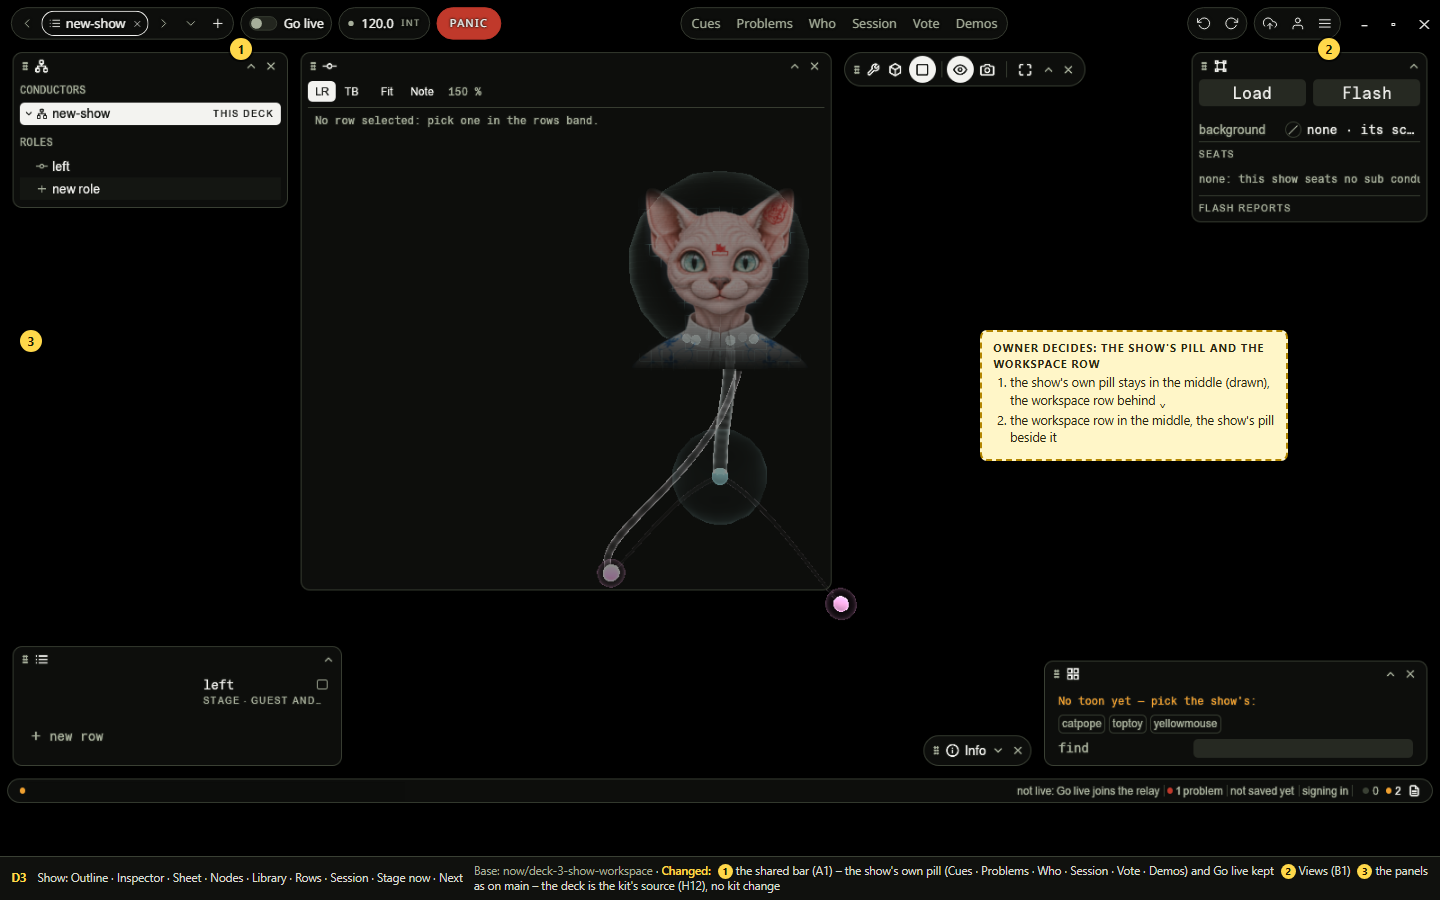
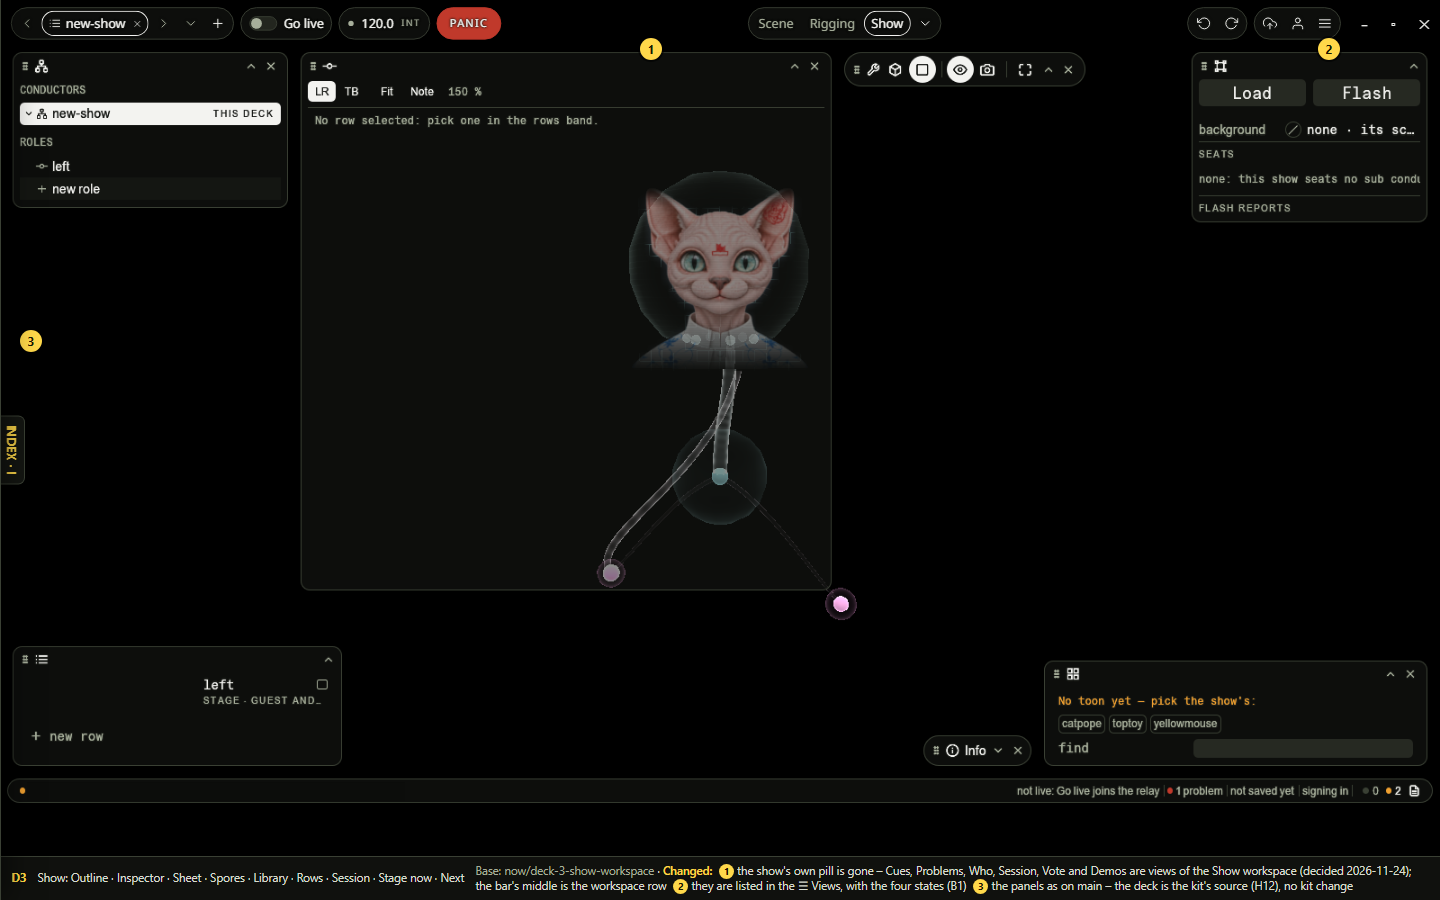
Lap 2 planning: the Show's Cues, Problems, Who, Session, Vote and Demos are views, not a pill in the bar (RULES H16, owner 2026-11-24); D3 redrawn without the pill. Refs #626

diff --git a/agents/research/redesign/lap2/draft-screens.js b/agents/research/redesign/lap2/draft-screens.js
@@ -293,10 +293,9 @@ add('D', 'D1', 'The switcher over a workspace (Home stays when nothing is open)'
 add('D', 'D2', 'Build: Rig · Library · Inspector · Audio · Info · Mixer · Camera tools · Tools', 'now/deck-3-stage-workspace (catpope open in Build)',
   ['the shared bar (A1)', 'Views: the ☰ menu\'s PANELS become Views (A2 / B1)', DKNOTE],
   () => `${deckShot('deck-3-stage-workspace.png', deckBarNew({ wsNames: ['?','?','?'] }))}${mk(1, 230, 38)}${mk(2, 1318, 38)}${capn(980, 52, 'Views in the ☰ menu (A2) or the tab\'s menu (B1)')}${mk(3, 20, 330)}`);
-add('D', 'D3', 'Show: Outline · Inspector · Sheet · Nodes · Library · Rows · Session · Stage now · Next', 'now/deck-3-show-workspace',
-  ["the shared bar (A1) – the show's own pill (Cues · Problems · Who · Session · Vote · Demos) and Go live kept", 'Views (B1)', DKNOTE],
-  () => `${deckShot('deck-3-show-workspace.png', deckBarNew({ tabs: [['list','new-show']], mode: 'Go live', ws: `<span class="kp">${['Cues','Problems','Who','Session','Vote','Demos'].map(n => `<span class="kt">${n}</span>`).join('')}</span>` }))}${mk(1, 230, 38)}${mk(2, 1318, 38)}${mk(3, 20, 330)}
-  ${qcard(980, 330, "the Show's pill and the workspace row", ["the show's own pill stays in the middle (drawn), the workspace row behind ⌄", 'the workspace row in the middle, the show\'s pill beside it'], '', '22rem')}`);
+add('D', 'D3', 'Show: Outline · Inspector · Sheet · Spores · Library · Rows · Session · Stage now · Next', 'now/deck-3-show-workspace',
+  ["the show's own pill is gone – Cues, Problems, Who, Session, Vote and Demos are views of the Show workspace (decided 2026-11-24); the bar's middle is the workspace row", 'they are listed in the ☰ Views, with the four states (B1)', DKNOTE],
+  () => `${deckShot('deck-3-show-workspace.png', deckBarNew({ tabs: [['list','new-show']], mode: 'Go live', wsNames: ['Scene','Rigging','Show'], wsOn: 2 }))}${mk(1, 640, 38)}${mk(2, 1318, 38)}${mk(3, 20, 330)}`);
 add('D', 'D4', 'Module: Library · Drives · Module · Problems', 'now/deck-3-module-workspace', ['the shared bar (A1)', 'Views (B1)', DKNOTE],
   () => `${deckShot('deck-3-module-workspace.png', deckBarNew({ tabs: [['code','new module']], mode: false, wsNames: ['?','?','?'] }))}${mk(1, 230, 38)}${mk(2, 1318, 38)}${mk(3, 20, 330)}`);
 add('D', 'D5', 'An asset open (character, module, video)', 'now/deck-3-stage-workspace (catpope, a character, open in Build)', ['the shared bar (A1)', 'Views (B1)', DKNOTE],

diff --git a/agents/decisions/law.md b/agents/decisions/law.md
@@ -4,6 +4,7 @@ The owner's words, one line each, newest first, append-only (how: agents/DECISIO
 Keys here: `[editor-style]` 33 the tools take the deck / OSCT editor style; the creator is desktop-only · `[vertex]` 1 OpenCode sessions use the `vienna-struggle` service account by the kind ladder · `[deck-rules-in-deck]` 3 deck rules live in the deck, the server keeps configuration · `[mcp-byo-ai]` 6 AI = the member's own Claude via MCP · `[worktree-requests]` 6 worktrees and branches: when, and the owner merges · `[docs]` 4 the docs structure and caps · `[language-neutral]` 3 everything language-independent · `[scenes-from-api]` 3 scenes are API content (entities), not TOML · `[audit]` 2 the bridge audit is standing and reruns often · `[browser-is-ui]` 2 the browser is UI, no business logic · `[designer-in-creator]` 2 the designer is in the creator; performance vs edit mode · `[dev-ports]` 2 fixed ports, one start routine · `[issues-only]` 2 all open work is GitHub issues · `[kanon]` 2 the Kanon (story texts) · `[mariadb]` 2 MariaDB only; production is the source · `[names]` 2 deck / stage environment / no master-slave wording · `[night-runs]` 2 unattended runs: merge to main, never push · `[no-cloud]` 2 no cloud sessions; workers local in worktrees · `[perf-first]` 2 performance and stability first · `[rigs-in-core]` 2 rigs and modules are Rust in the core · `[ai-license]` 1 AI models without the big companies' license limits · `[api-content]` 1 content from the API, JSON only as import / export · `[audiovisual]` 1 everything is audiovisual · `[board]` 1 the six board statuses · `[board-move]` 1 move issues along the board · `[bold]` 1 bold very rarely · `[branch-names]` 1 <kind>/<issue>-<title> · `[carrier-bag]` 1 "carrier bag" replaces inventory · `[codes]` 1 codes are case-sensitive · `[config-small]` 1 keep the configuration small · `[confirm]` 1 in-page confirmations · `[control-height]` 1 one control height · `[core-only]` 2 check:core-only ratchet · `[deck-ci-local]` 2 deck CI runs locally; stamps and the full tier · `[devices-via-core]` 1 camera / MIDI / sensors reach the core through adapters · `[done-green]` 1 done = green checks · `[drafts-first]` 1 bigger UI is drafted first · `[empty-states]` 1 empty states · `[fold]` 1 quiet fold buttons · `[law-book]` 1 this refactor · `[local-media]` 1 local media is a dev copy · `[mcp-draft-ok]` 1 save_draft always allowed · `[mcp-drafts]` 1 the AI saves drafts, the member confirms · `[mcp-restart]` 1 agents restart their own MCP · `[media-quality]` 1 media quality is a reader setting · `[migrations]` 1 the owner never runs migrations; format changes · `[models]` 1 model per task · `[module-restart]` 1 a new module is taken only by restart · `[music]` 1 every character makes music; how SCUTOONS began · `[no-backcompat-engine]` 1 no backwards compatibility for the audio engine · `[no-duplicate]` 1 no second copy of core logic · `[one-core]` 1 the one universal Rust core; platforms are target + adapters · `[one-engine]` 1 one audio engine, native ≡ wasm · `[own-video]` 1 own video playback, no browser API · `[packs]` 1 items / recipes are data packs · `[public-repo]` 1 repo public, Actions minutes free · `[readers-save-nothing]` 1 readers save nothing; no submit flow · `[rem]` 1 sizes in rem · `[round-square]` 1 round vs square controls · `[rust-engine]` 1 as much as possible in the Rust engine · `[rust-first]` 1 Rust first for everything native · `[slice-624]` 1 slice 390 × 624 · `[tempo-core]` 1 the tempo clock lives in the core · `[test-user]` 1 agents debug as the test user · `[ts-module-host]` 1 the TS module host is deleted · `[ts-tests]` 2 TypeScript + unit tests · `[urls]` 1 printed URLs never change · `[usage]` 1 usage reporting · `[ui-kit]` 8 one component library for shared 2D UI
 
 ## 2026-11
+- 2026-11-24 · ui deck · [editor-style] **Decided: the Show's Cues · Problems · Who · Session · Vote · Demos are views, not a pill in the bar – they follow the workspace logic and do not interfere with the workspace row.** Said on the deck's Show (D3), and said again when a picture still drew them: Owner: *"I think we have to just move them to views and make it follow our workspace logic. So they don't interfere with the workspace bar."* · *"These are redundant, we said that before … please record my decisions. They should be views now."* · → RULES H16, research/redesign/lap2/draft.html `?s=D3`, PLAN.md P2 (deck)
 - 2026-11-24 · ui · [editor-style] **Decided: depth layers. The switcher ("workspace switcher or just switcher from now on") shows no top bar – the bar is blurred in the background like the rest of the workspace, the stage and the panels. The same for a panel taken full, which is a box and not a real full screen: it shows its context by blurring the background. Blur is used on this level of overlay only; other panels do not need it.** Owner: *"We do not want to see the top bar, it is blurred out in the background, just like the rest of the underlying workspace and stage and panels."* · *"Same blurred concept goes for take fullscreen for a panel, which is not a real fullscreen but a boxed one. So it has to show context by blurring out the background."* · *"And we only use blur in this level of overlay, rule. Other panels don't need it."* · *"So we create some depth layers for our UI dogma."* The four layers' names (stage · surfaces · popovers · overlay) are the agent's wording, to confirm. · → RULES H15, research/redesign/lap2/draft.html `?s=A3`, `?s=D1`, `?s=B4`
 - 2026-11-24 · ui · [editor-style] **Decided: signals keep their colour coding – the only thing that does under palette D. Ports, pins and cables are drawn in their signal's colour and shape from the one signal table (deck-kit `base/signal.rs`); what OSCT has and the table lacks is adopted.** Answering "signals by shape only?" (SPORES-VIEW.md point 4), and so replacing the kit's point 14 (cables in the text colour). Owner: *"No. Signals have colour coding. This is the only thing that keeps their colour coding. We have a concept in place and can adopt if some [are] missing from OSCT."* · → RULES H11, research/redesign/lap2/SPORES-VIEW.md, NETWORK.md §3
 - 2026-11-24 · ui · [editor-style] **Decided: the kit in palette D is approved as drawn (research/redesign/lap2/kit-d.html, its 14 points; the tab's hover / drag border in the text colour) – with two conditions: no grey through the back door, and a colour-blind token set.** Owner: *"I agree on kit-d. That looks awesome. Except there are some transparencies that I don't like since we are secretly introducing grey a lot again instead of transparency – can we please rework that. Also for the colour tokens add the colour-blind version. Blue and yellow or orange are the colours there respectively."* Grounds are see-through (the text colour at a low alpha), a state is never a grey fill; ok / warning / error get a second, colour-blind set (blue / yellow / orange, Okabe–Ito) with a mark beside each colour, a mode in Settings.

diff --git a/agents/RULES.md b/agents/RULES.md
@@ -103,6 +103,7 @@ Old section names in code comments (until 2026-11-03): "Backlog" = C · "Git, se
 - **H13** Design pictures (drafts in `research/redesign/` and every mock-up shown to the owner) are drawn with the kit's own tokens and components – `shared/tokens` and the `shared/ui` editor kit (H11, H12): round pills, the kit's badges, the stage and panel grounds – never an older style; a draft that needs a shape the kit lacks marks it as new. Badges (the kit's Chip) are small and delicate: round, the accent as line and words on a faint accent ground, never a solid blue fill. (2026-11-24 [editor-style])
 - **H14** No info in the UI unless the member asks for it: no hint lines, legends, explanations or info buttons in panels – the UI is meant to be intuitive, and pros don't need it. What a control or a type means is its hover text (`title`), and the Info view (the creator's `info` view, deck-kit `info.rs`, from the OSCT editor; in no preset, opened through Views) shows the name and description of what is under the pointer – the member's choice. Panels show values, states and errors; rarely used filters shrink to icons whose hover says the rest. (2026-11-24 [editor-style])
 - **H15** Depth layers. The tools have four depths, each with one ground: **the stage** (the content; black by night, white by day) · **surfaces** (the bar, the floating panels, the status line: the see-through panel ground, sharp) · **popovers** (menus, pickers, hover text: opaque, sharp) · **the overlay** (the switcher, and a panel taken full – a box, never the whole window). Under the overlay everything is blurred, the bar included, so the place stays readable as context and nothing of it competes. Blur exists on the overlay level only: no panel, menu or popover blurs what lies behind it. The workspace switcher is called "the switcher". (2026-11-24 [editor-style])
+- **H16** The bar's middle holds the workspace row and nothing else. What a workspace has of its own – the Show's Cues, Problems, Who, Session, Vote and Demos – is a view of that workspace: listed in the ☰ Views with the four states (hidden · panel · stage · full), never a pill of its own in the bar. (2026-11-24 [editor-style])
 
 ## I · Product
 - **I1** Printed / public URLs never change (QR `?c=`, `/verify.html`, `/<toon>`, `/<toon>/chapter/<n>`, `?code=`, locale prefixes); new may be added; a change only by server-side mapping + tests + rollback (PLATFORM "Printed URLs"). Codes are case-sensitive. (2026-09-30 [urls], 2026-10-03 [codes])

diff --git a/agents/research/redesign/lap2/SCREENS.md b/agents/research/redesign/lap2/SCREENS.md
@@ -58,7 +58,7 @@ Every screen is 1440×900, night first, drawn from today's screen (`now/`) with 
 |---|---|---|---|
 | D1 | The switcher over a workspace | as A3; Home stays when nothing is open | shape |
 | D2 | Build | the shared bar, Views in the ☰, kit look | old |
-| D3 | Show | its sheets are views; the row's ⚡ slot with Find; the tab "Spores"; no thick left bar | current – show.html, spores-view.html |
+| D3 | Show | no pill of its own in the bar: Cues, Problems, Who, Session, Vote and Demos are views; the row's ⚡ slot with Find; the tab "Spores"; no thick left bar | current – show.html, spores-view.html (the draft's own D3 has the bar right, the panels old) |
 | D4 | Module, nothing open | the shared bar, kit look | old |
 | D4b | **Module, a module open** (new) | never drawn: its Parameters, Problems, the module heard alone on the stage, Derive for a factory module; the code opens in the external editor | words |
 | D5 | An asset open | the one place an asset's inside is shown; "Edit in deck" lands here | old |

diff --git a/agents/research/redesign/lap2/DECISIONS.md b/agents/research/redesign/lap2/DECISIONS.md
@@ -43,7 +43,7 @@ One line per decision. **Open** lists what still needs the owner's word; **Thoug
 - **Search is its own overlay** (Alt Space / ⌘ Space).
 - **The user menu drops under the account icon.** No swipe.
 - **A craft shapes the bar:** the translator's bar carries the edit language.
-- **The Show's own pill goes.** Cues, Problems, Who, Session, Vote and Demos are views of the Show workspace.
+- **The Show's own pill goes.** Cues, Problems, Who, Session, Vote and Demos are views of the Show workspace, listed in the ☰ Views. The bar's middle holds the workspace row and nothing else. (H16)
 - **Resume across devices** (built, #838). Existing members are asked their crafts once.
 
 **Open**
